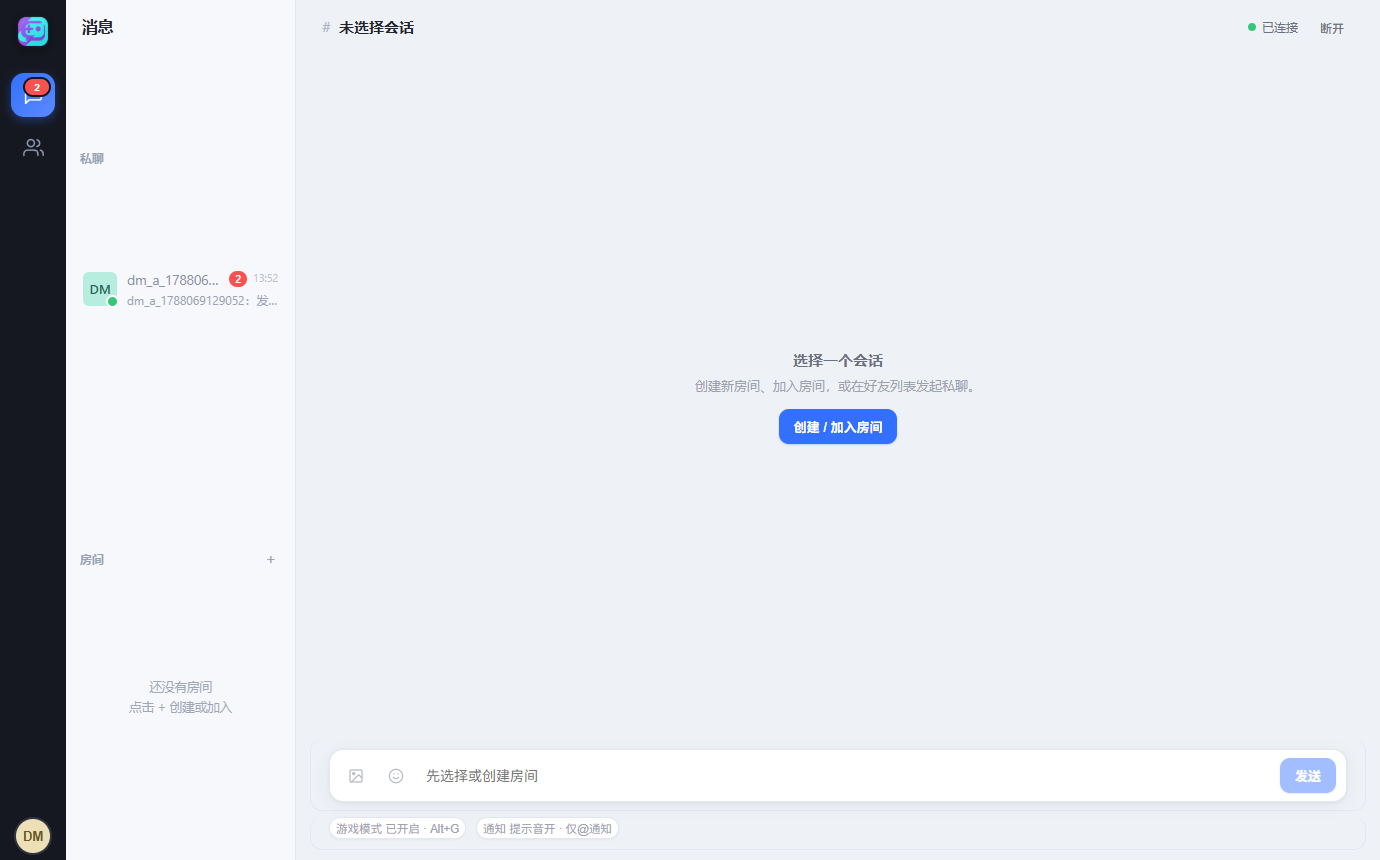
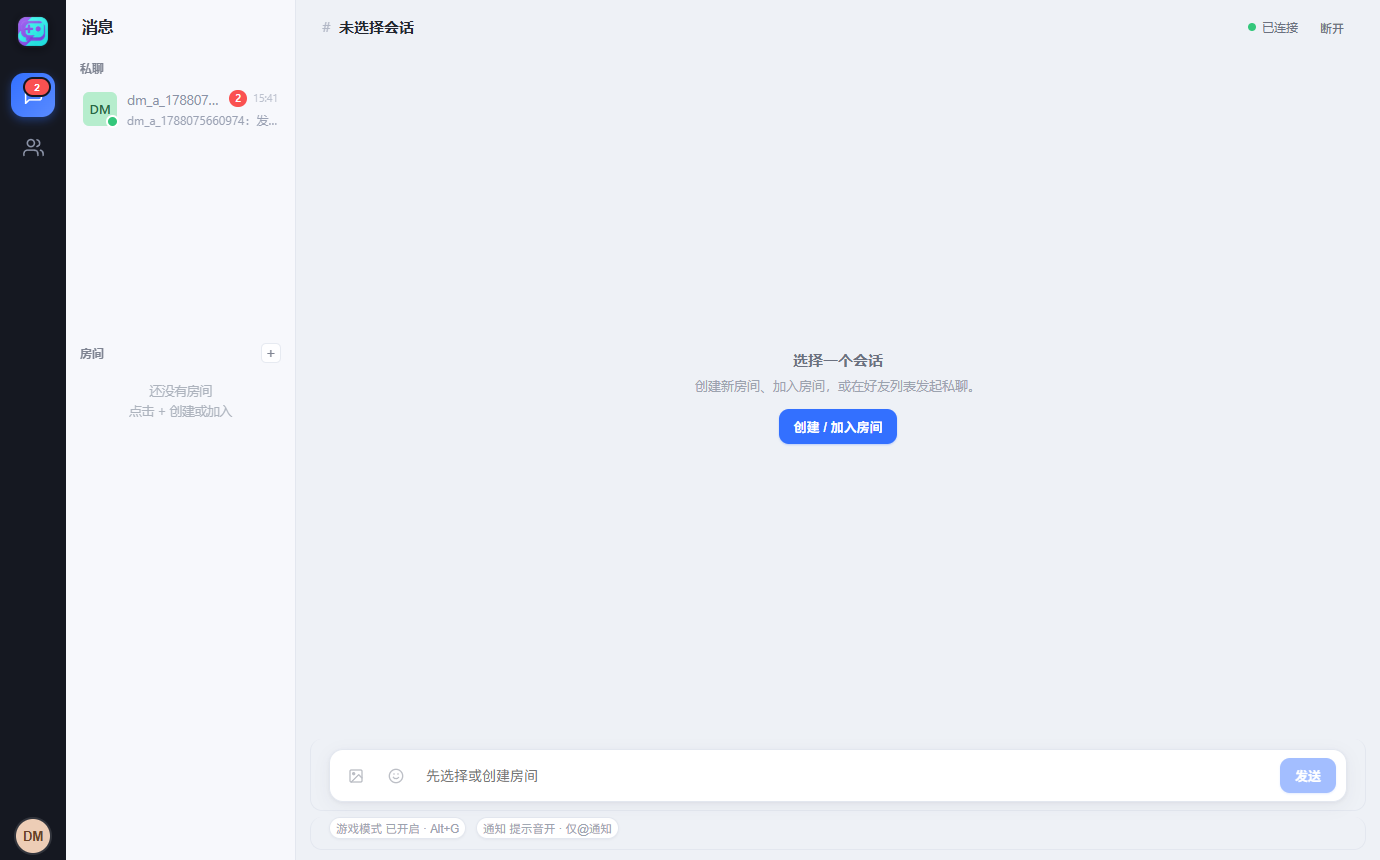
docs: refresh readme and screenshots for v0.5.7, fix floating menu in captures, remove chatty wording

diff --git a/docs/architecture.md b/docs/architecture.md
@@ -24,7 +24,7 @@
 
 | 层 | 选型 | 理由 |
 |---|---|---|
-| 客户端 | Tauri 2 + React 18 + TS + Vite | 安装包 ~10MB；系统级全局快捷键、透明置顶窗口原生支持；Rust 侧极小 |
+| 客户端 | Tauri 2 + React 19 + TS + Vite | 安装包 ~10MB；系统级全局快捷键、透明置顶窗口原生支持；Rust 侧极小 |
 | 服务端 | Node 22 + Fastify 5 + @fastify/websocket | 轻量、WebSocket 一等公民、TS 全栈类型统一 |
 | 数据库 | PostgreSQL 16 | 稳定；`pg` 直连 + 纯 SQL migration，无 ORM 心智负担 |
 | 开发/测试库 | PGlite (WASM PostgreSQL) | 本机无 PG/Docker 时的真实 SQL 环境；与生产同源 migration |
@@ -39,7 +39,7 @@ gametalk/
 │   ├── src/                 # React 前端
 │   │   ├── app/             # 基础能力：types / ws / api / settings / gameMode / audio
 │   │   ├── stores/          # zustand 状态（auth / chat / friends / notifications）
-│   │   ├── App.tsx          # 主窗口 UI（登录 / 消息与好友侧栏 / 聊天 / 通知中心 / 设置）
+│   │   ├── App.tsx          # 主窗口 UI（登录 / 图标导航 rail + 会话列表列 / 聊天区 / 设置）
 │   │   ├── input.tsx        # 输入 Overlay 窗口入口
 │   │   └── overlay.tsx      # 消息 Overlay 窗口入口
 │   └── src-tauri/           # Rust 壳（托盘 / 单实例 / quit_app / set_proxy）

diff --git a/docs/testing.md b/docs/testing.md
@@ -45,7 +45,7 @@ cd client/src-tauri && cargo check
 | 21 | 房主代撤（广播/历史带 recalledBy，撤回行三态文案，预览作者同步） | ✅ | ✅ 双账号浏览器（docs/ui-fix-050.png） |
 | 22 | Windows 系统通知（三档设置/仅@与私聊/活跃会话不弹） | 档位逻辑随 store | 真机安装包验收（需 Windows 通知权限） |
 
-当前实测：server 51 测试 + client 16 测试（5 集成 + 11 单测）全绿（0.5.0：撤回操作者断言并入既有用例）；lint 双工作区通过；生产模式冒烟（health/register/login）通过。
+当前实测：server 52 测试 + client 17 测试（5 集成 + 12 单测）全绿（含改名 409、撤回操作者归属断言）；lint 双工作区通过；生产模式冒烟（health/register/login）通过。
 
 ## 3. 真机验收清单
 
